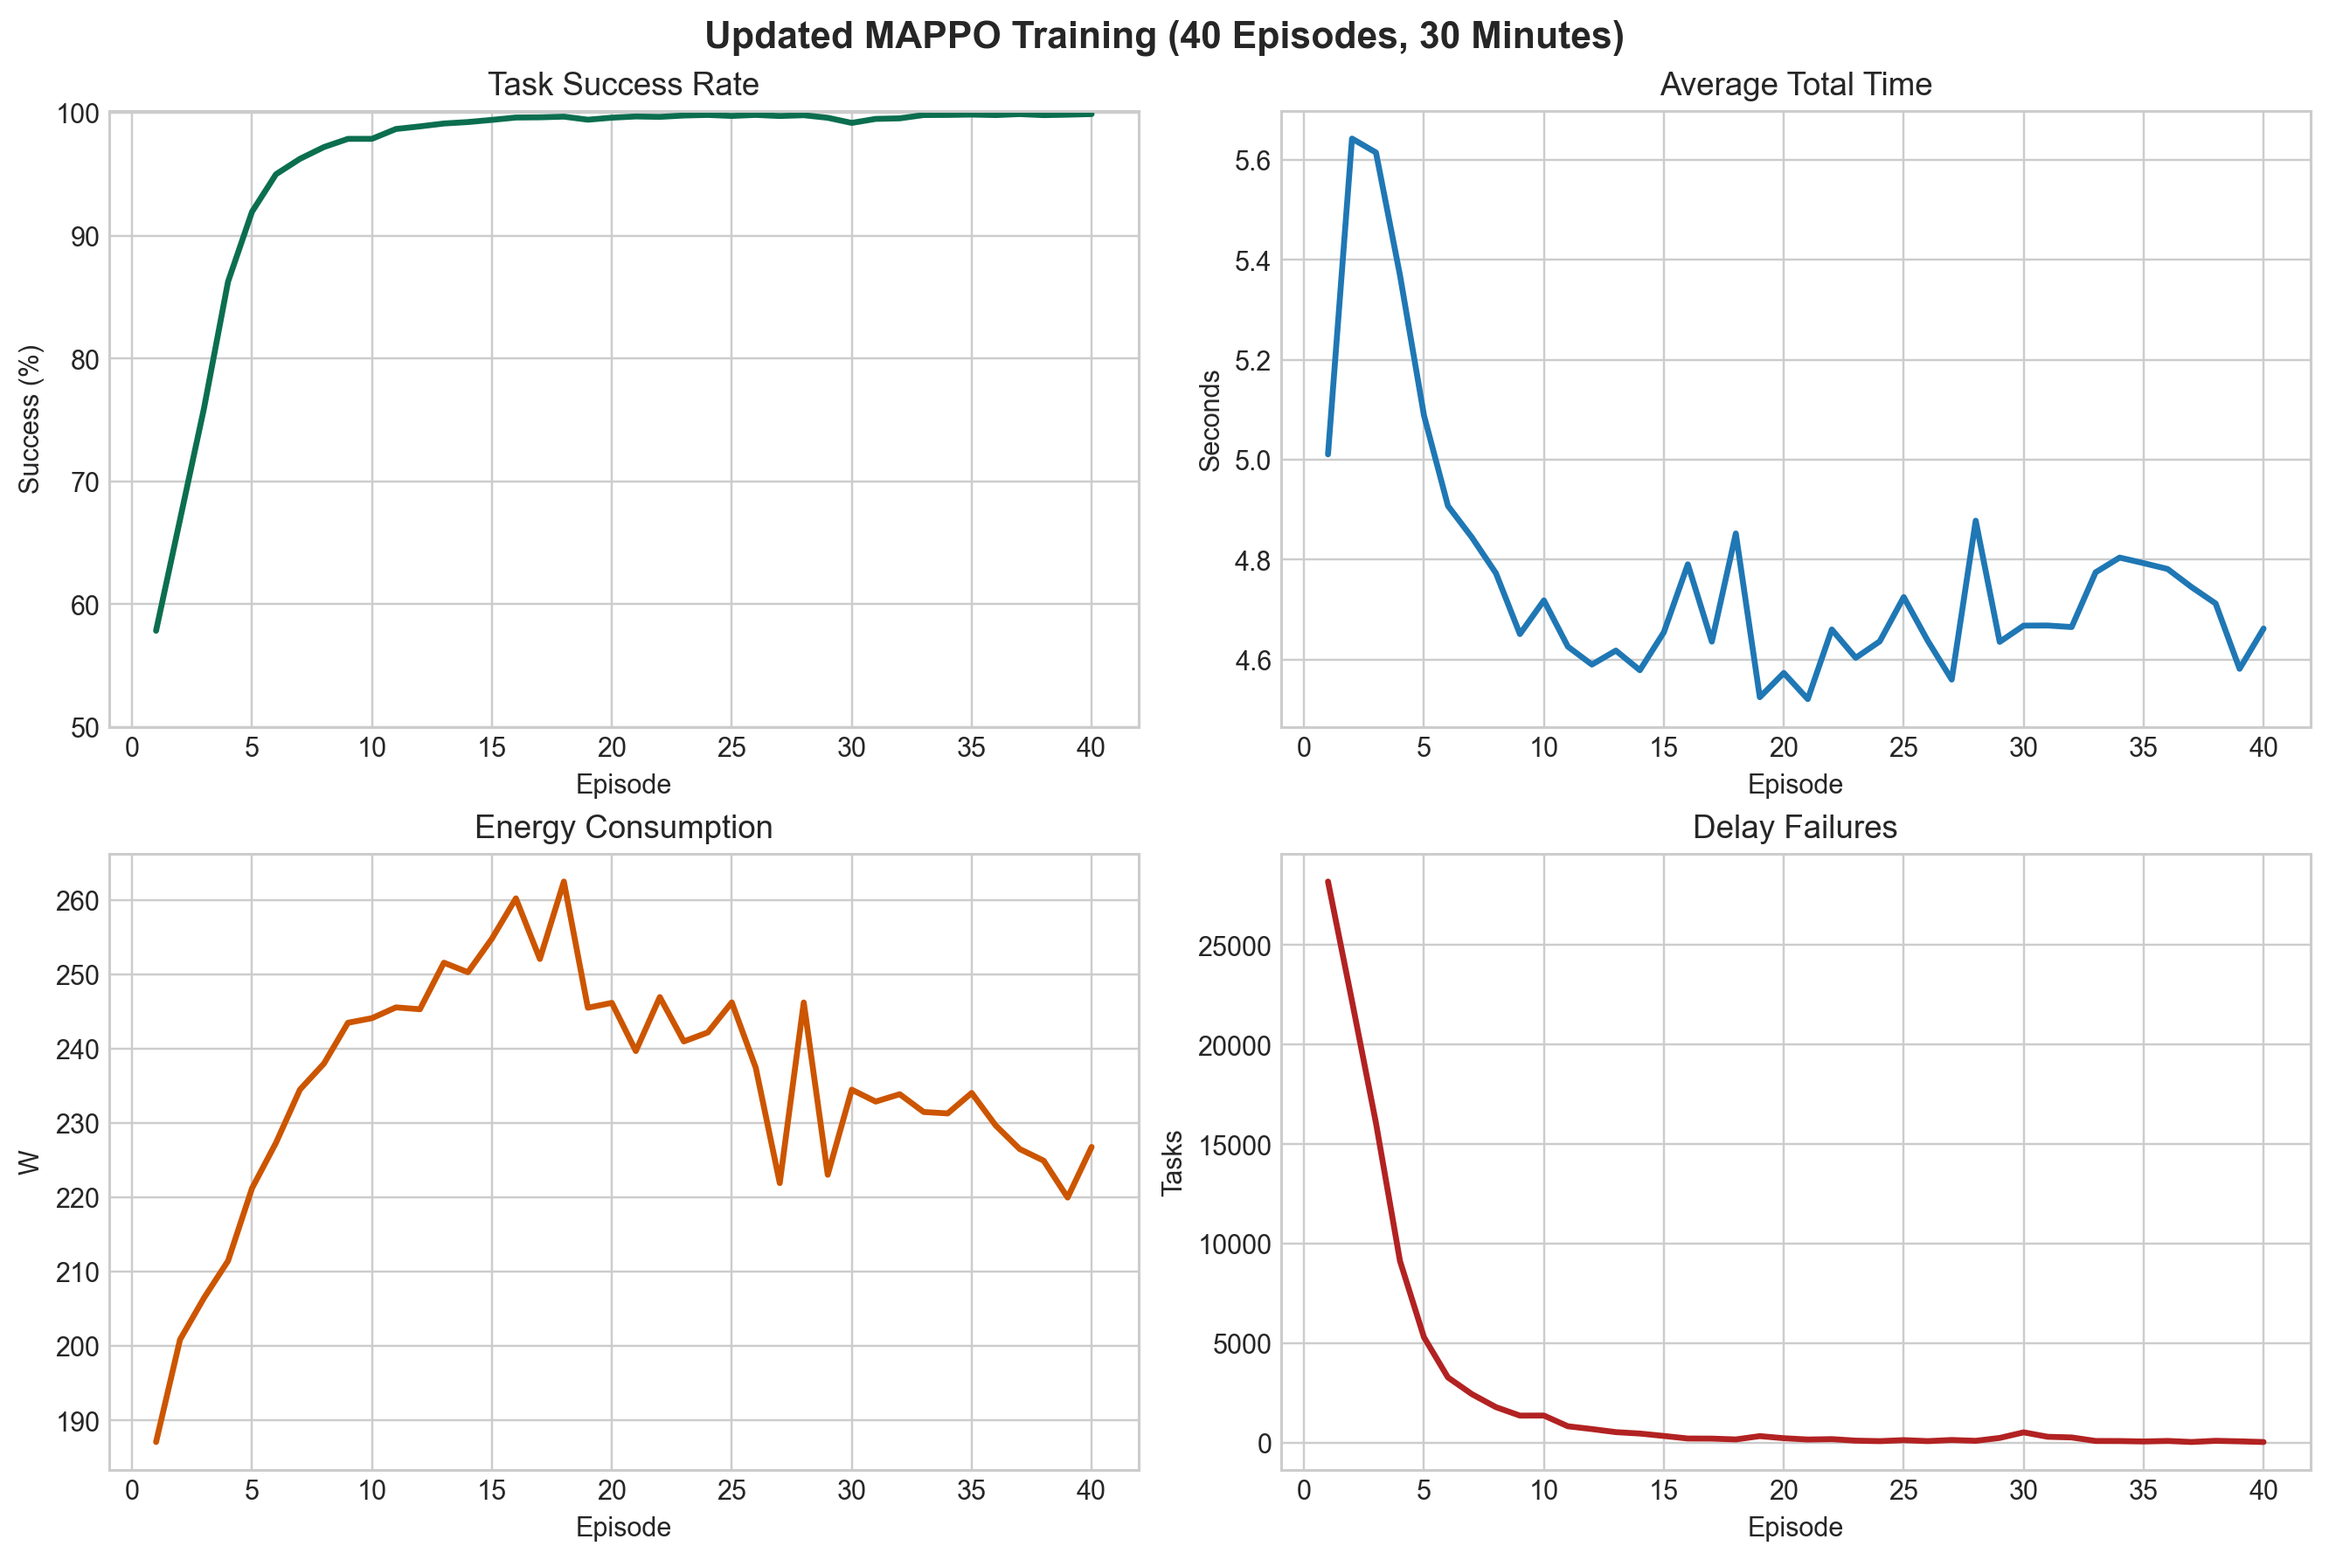
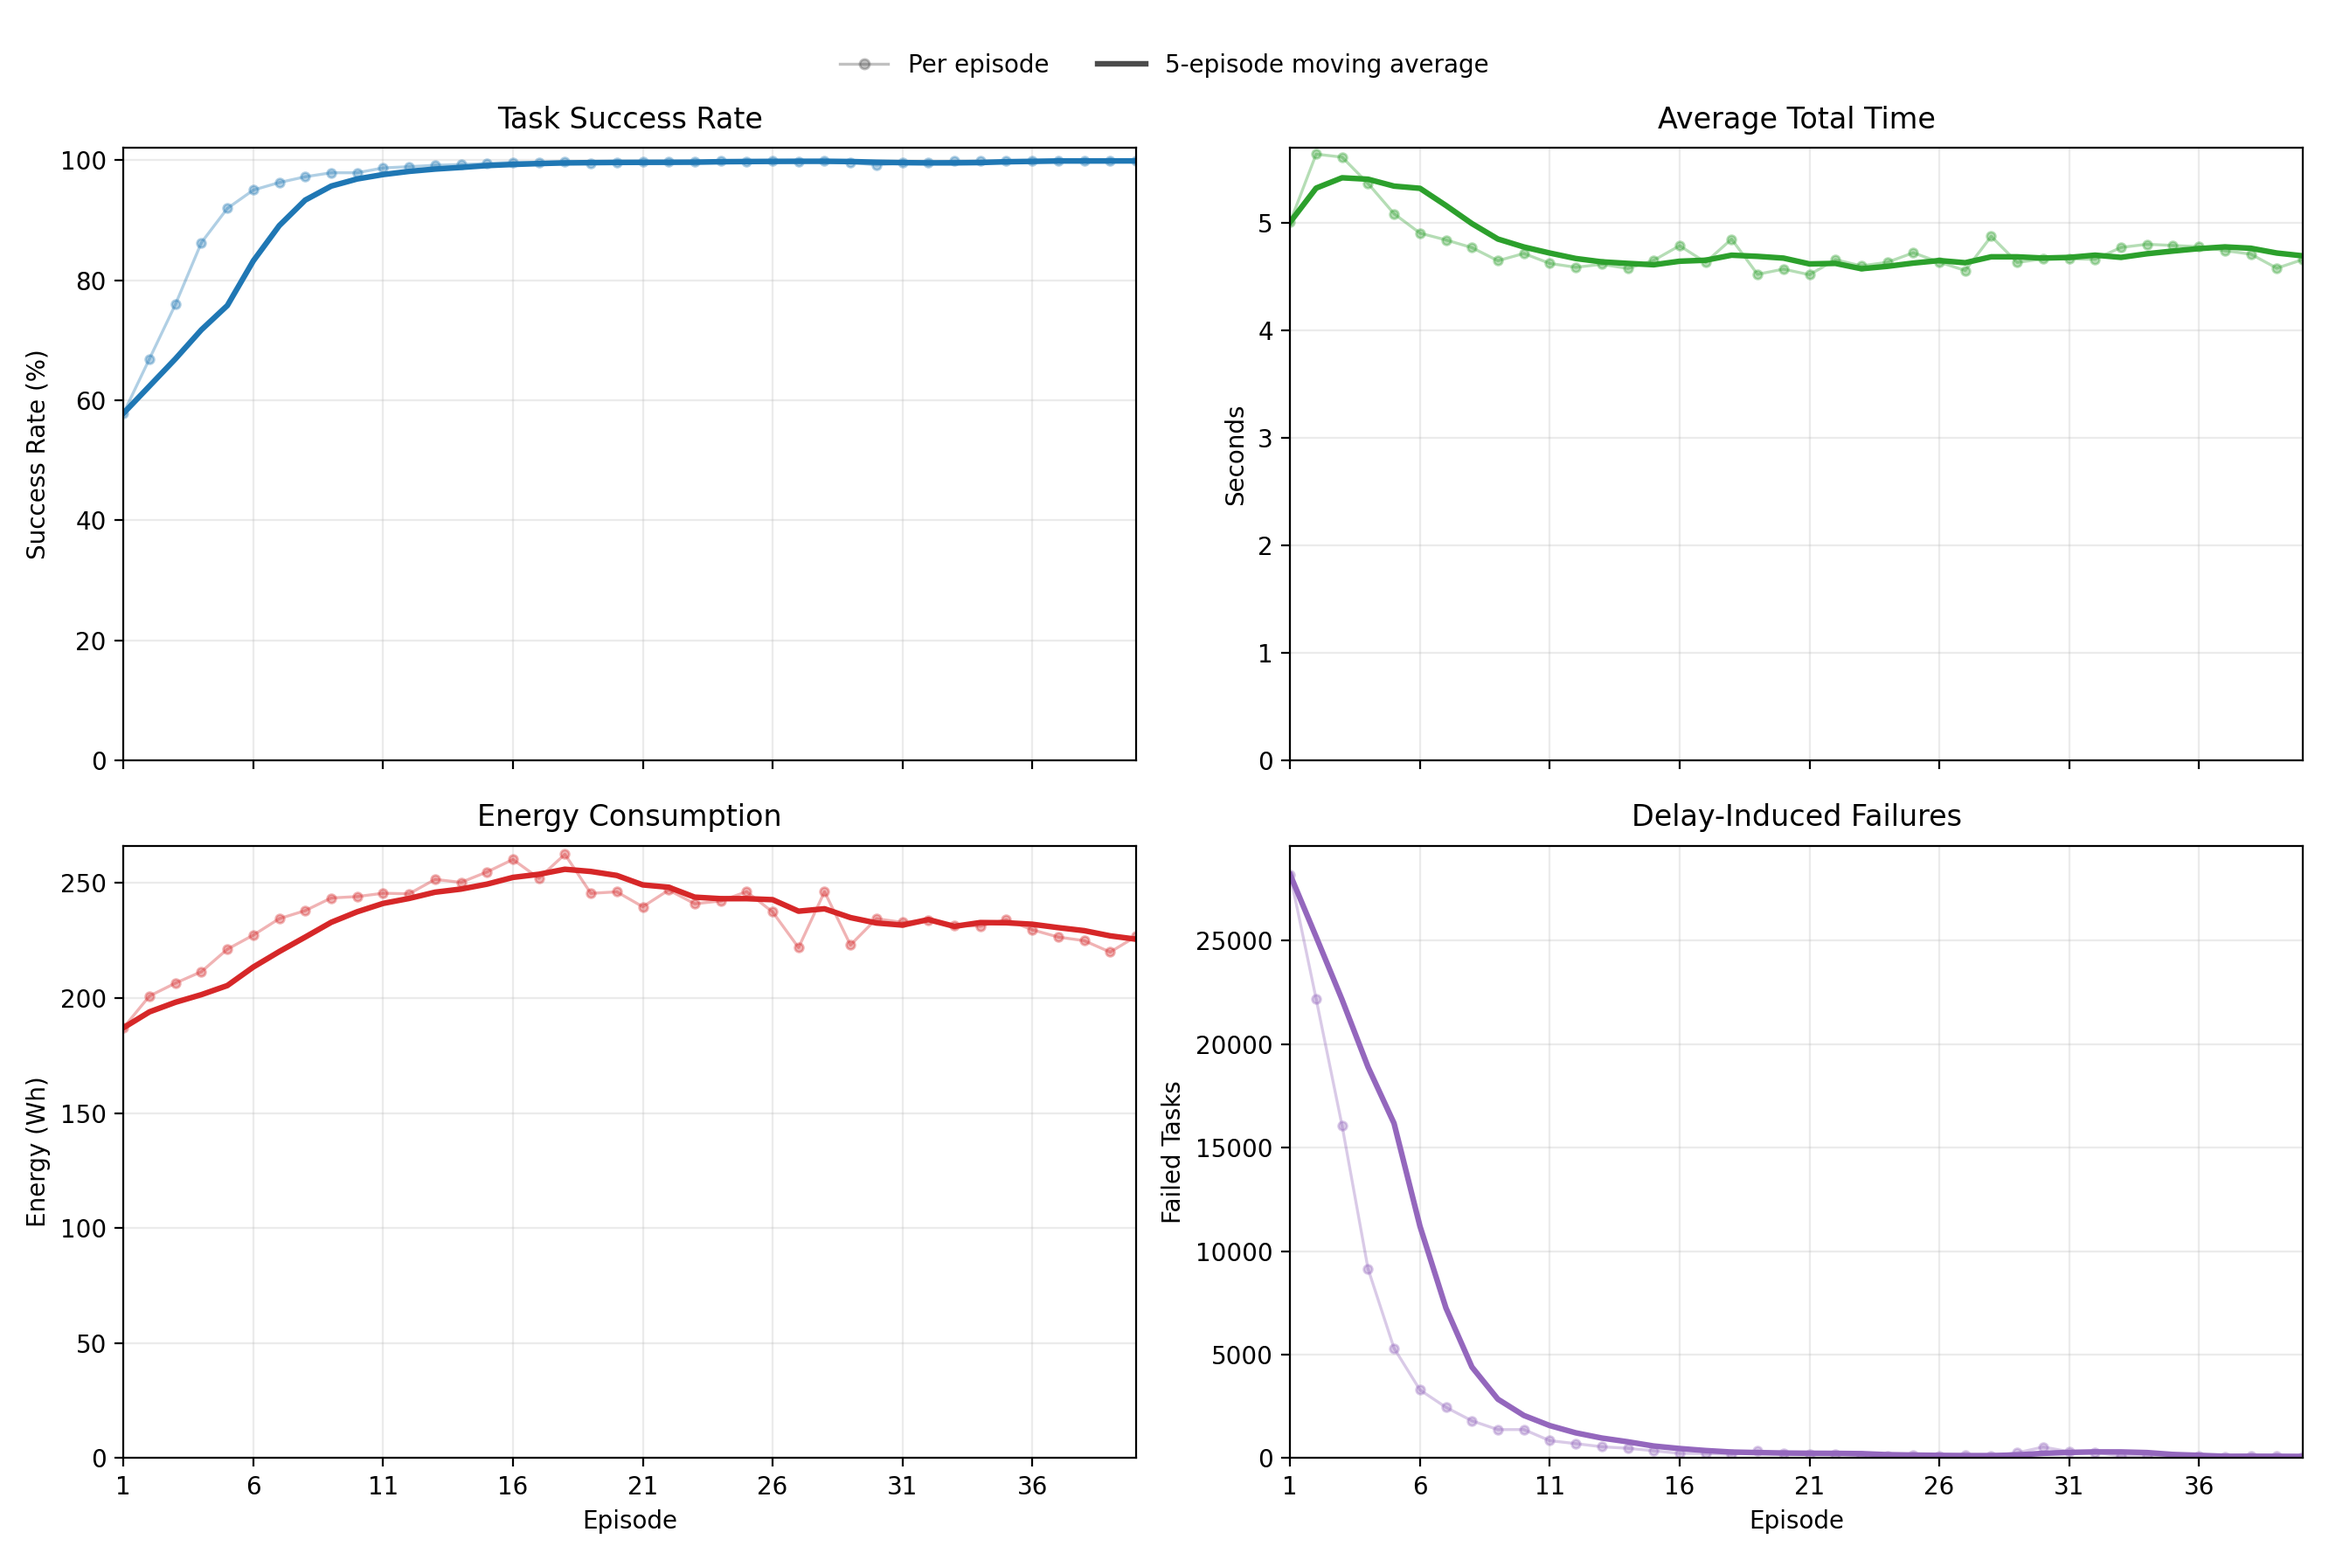
更正figure6

diff --git a/EE5003_Report/regenerate_energy_figures.py b/EE5003_Report/regenerate_energy_figures.py
@@ -26,6 +26,10 @@ from analyze_mappo import analyze_episode
 
 def regenerate_all() -> None:
     FIGURES_DIR.mkdir(parents=True, exist_ok=True)
+    _regenerate_training_progress_figure(
+        run_root=ROOT / "Results" / "mappo_train_run_20260317_112642",
+        target_path=FIGURES_DIR / "mappo_training_progress_40ep.png",
+    )
     _regenerate_analysis_energy_figure(
         trajectory_path=ROOT
         / "Results"
@@ -72,6 +76,49 @@ def _regenerate_analysis_energy_figure(trajectory_path: Path, results_dir: Path,
         tmp_dir = Path(tmp)
         analyze_episode(trajectory_path, results_dir, tmp_dir)
         shutil.copyfile(tmp_dir / "energy_consumption.png", target_path)
+
+
+def _regenerate_training_progress_figure(run_root: Path, target_path: Path) -> None:
+    episodes, success, avg_total_time, energy, delay_failures = _load_training_progress_series(run_root)
+    success_ma = _moving_average(success, window=5)
+    avg_total_time_ma = _moving_average(avg_total_time, window=5)
+    energy_ma = _moving_average(energy, window=5)
+    delay_failures_ma = _moving_average(delay_failures, window=5)
+
+    fig, axes = plt.subplots(2, 2, figsize=(13.325, 8.925), sharex=True)
+    panels = [
+        (axes[0, 0], success, success_ma, "Task Success Rate", "Success Rate (%)", "#1f77b4"),
+        (axes[0, 1], avg_total_time, avg_total_time_ma, "Average Total Time", "Seconds", "#2ca02c"),
+        (axes[1, 0], energy, energy_ma, "Energy Consumption", "Energy (Wh)", "#d62728"),
+        (axes[1, 1], delay_failures, delay_failures_ma, "Delay-Induced Failures", "Failed Tasks", "#9467bd"),
+    ]
+
+    for ax, values, values_ma, title, ylabel, color in panels:
+        ax.plot(episodes, values, color=color, marker="o", markersize=3.5, linewidth=1.2, alpha=0.35)
+        ax.plot(episodes, values_ma, color=color, linewidth=2.3)
+        ax.set_title(title, fontsize=12, pad=8)
+        ax.set_ylabel(ylabel)
+        ax.grid(True, alpha=0.25)
+        ax.set_xlim(1, episodes[-1])
+
+    axes[0, 0].set_ylim(0, 102)
+    axes[1, 1].set_ylim(bottom=0)
+    axes[1, 0].set_ylim(bottom=0)
+    axes[0, 1].set_ylim(bottom=0)
+
+    for ax in axes[1]:
+        ax.set_xlabel("Episode")
+    for ax in axes.flat:
+        ax.set_xticks(np.arange(1, episodes[-1] + 1, 5))
+
+    legend_handles = [
+        plt.Line2D([0], [0], color="#4c4c4c", linewidth=1.2, alpha=0.35, marker="o", markersize=4, label="Per episode"),
+        plt.Line2D([0], [0], color="#4c4c4c", linewidth=2.3, label="5-episode moving average"),
+    ]
+    fig.legend(handles=legend_handles, loc="upper center", ncol=2, frameon=False, bbox_to_anchor=(0.5, 0.98))
+    fig.tight_layout(rect=(0, 0, 1, 0.95))
+    fig.savefig(target_path, dpi=200)
+    plt.close(fig)
 
 
 def _regenerate_ablation_devices_energy_figure(summary_path: Path, target_path: Path) -> None:
@@ -152,6 +199,54 @@ def _read_rows(csv_path: Path) -> List[Dict[str, str]]:
     with csv_path.open("r", encoding="utf-8", newline="") as handle:
         reader = csv.DictReader(handle)
         return list(reader)
+
+
+def _load_training_progress_series(run_root: Path) -> tuple[List[int], List[float], List[float], List[float], List[float]]:
+    episodes_dir = run_root / "train" / "episodes"
+    if not episodes_dir.is_dir():
+        raise FileNotFoundError(f"Training episodes directory not found: {episodes_dir}")
+
+    episodes: List[int] = []
+    success: List[float] = []
+    avg_total_time: List[float] = []
+    energy: List[float] = []
+    delay_failures: List[float] = []
+
+    for episode_dir in sorted(episodes_dir.glob("episode_*")):
+        episode_index = int(episode_dir.name.split("_")[-1])
+        timestamp_dirs = sorted(path for path in episode_dir.iterdir() if path.is_dir())
+        if not timestamp_dirs:
+            raise FileNotFoundError(f"No timestamp directory found under: {episode_dir}")
+        result_rows = _read_rows(timestamp_dirs[0] / "Sequential_simulation.csv")
+        if not result_rows:
+            raise ValueError(f"No simulation rows found in: {timestamp_dirs[0] / 'Sequential_simulation.csv'}")
+        row = result_rows[-1]
+
+        episodes.append(episode_index)
+        success.append(float(row["Tasks success rate"]))
+        avg_total_time.append(float(row["Average total time (s)"]))
+        # The result CSV keeps the legacy header name, but the quantity is cumulative energy in Wh.
+        energy.append(float(row["Energy consumption (W)"]))
+        delay_failures.append(float(row["Tasks failed (delay)"]))
+
+    if not episodes:
+        raise ValueError(f"No training episodes found in: {episodes_dir}")
+    return episodes, success, avg_total_time, energy, delay_failures
+
+
+def _moving_average(values: Iterable[float], window: int) -> np.ndarray:
+    series = np.asarray(list(values), dtype=float)
+    if series.size == 0:
+        return series
+    effective = max(1, min(window, int(series.size)))
+    prefix = np.cumsum(series, dtype=float)
+    averaged = np.empty_like(series)
+    for idx in range(series.size):
+        start = max(0, idx - effective + 1)
+        count = idx - start + 1
+        total = prefix[idx] - (prefix[start - 1] if start > 0 else 0.0)
+        averaged[idx] = total / count
+    return averaged
 
 
 if __name__ == "__main__":

diff --git a/EE5003_Report/contents/result.tex b/EE5003_Report/contents/result.tex
@@ -14,7 +14,7 @@ Under this setting, MAPPO converges to a high-quality joint policy. The task suc
 
 The full training trajectory is shown in \Figref{fig:mappo-training-progress}. Beyond the high final success rate, the more important observation is the stable late-stage plateau. Over the last 10 episodes, the mean success rate is \(99.80\%\) with a standard deviation of \(0.131\). The training log records an average simulator wall time of \(227.74\,\mathrm{s}\) per episode, or \(9109.46\,\mathrm{s}\) in total for 40 episodes, which corresponds to approximately 2.53 hours end to end.
 
-\begin{figure}[htbp]
+\begin{figure}[h]
     \centering
     \includegraphics[width=0.95\textwidth]{figures/mappo_training_progress_40ep.png}
     \caption{MAPPO training progress under the standard multi-agent setting.}
